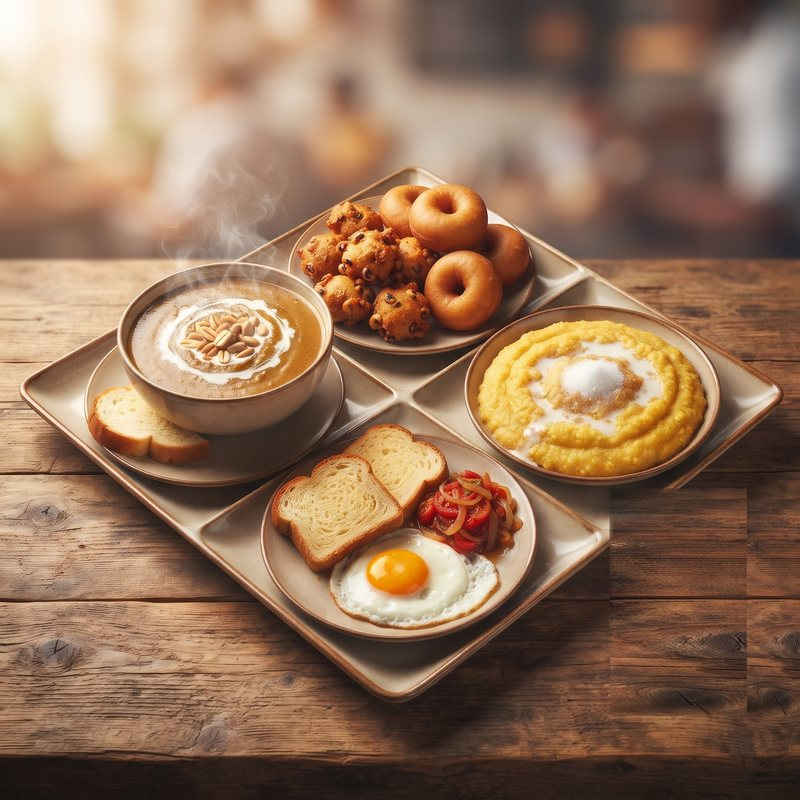
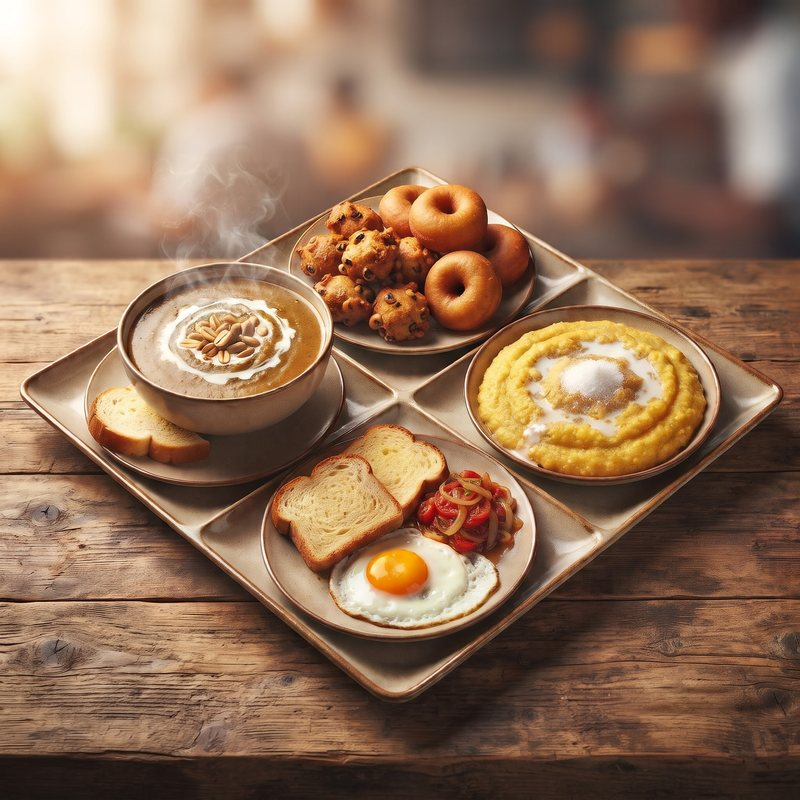
Replace Local Breakfast Combos photo with clean version
Claude-Session: https://claude.ai/code/session_01UDzKTnbmzNHoaH7xhL5cuV

diff --git a/js/photos.js b/js/photos.js
@@ -60,7 +60,7 @@ window.BAF_MENU_PHOTOS = {
   "Hausa Koko": "assets/img/menu/hausa-koko.jpg?v=76a05aba",
   "Rice Water": "assets/img/menu/rice-water.jpg?v=af7134a8",
   "Porridge": "assets/img/menu/porridge.jpg?v=dd80a90e",
-  "Local Breakfast Combos": "assets/img/menu/local-breakfast-combos.jpg?v=60dd7fe6"
+  "Local Breakfast Combos": "assets/img/menu/local-breakfast-combos.jpg?v=223583e8"
 };
 /* Same photo used for matching items on the Menu page */
 Object.assign(window.BAF_MENU_PHOTOS, {

diff --git a/events.html b/events.html
@@ -14,7 +14,7 @@
 <script src="js/config.js?v=5839ed0c" defer></script>
 <script src="js/products.js?v=8cf0afb6" defer></script>
 <script src="js/events-data.js?v=be1a756b" defer></script>
-<script src="js/photos.js?v=b6038054" defer></script>
+<script src="js/photos.js?v=661f501e" defer></script>
 <script src="js/app.js?v=62668a4e" defer></script>
 <script src="js/events.js?v=bb191ed6" defer></script>
 </head>

diff --git a/credits.html b/credits.html
@@ -13,7 +13,7 @@
 <link rel="stylesheet" href="css/styles.css?v=9c5e90c7">
 <script src="js/config.js?v=5839ed0c" defer></script>
 <script src="js/products.js?v=8cf0afb6" defer></script>
-<script src="js/photos.js?v=b6038054" defer></script>
+<script src="js/photos.js?v=661f501e" defer></script>
 <script src="js/app.js?v=62668a4e" defer></script>
 </head>
 <body>

diff --git a/menu.html b/menu.html
@@ -13,7 +13,7 @@
 <link rel="stylesheet" href="css/styles.css?v=9c5e90c7">
 <script src="js/config.js?v=5839ed0c" defer></script>
 <script src="js/products.js?v=8cf0afb6" defer></script>
-<script src="js/photos.js?v=b6038054" defer></script>
+<script src="js/photos.js?v=661f501e" defer></script>
 <script src="js/app.js?v=62668a4e" defer></script>
 </head>
 <body>
